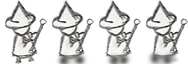
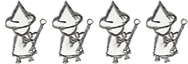
better wizbiz legs

Changed region(s): [[0.7713, 0.8125, 0.9574, 1.0], [0.2926, 0.8438, 0.4787, 1.0], [0.5585, 0.8438, 0.6915, 1.0]]

diff --git a/jame.js b/jame.js
@@ -31,7 +31,7 @@
                 this.fixed = true;
                 this.moves = false;
             }
-            this.addAnimation("run", [1, 2, 3], .03);
+            this.addAnimation("run", [2, 1, 3], .03);
             this.addAnimation("idle", [0], .5);
         },
         update: function() {
@@ -222,7 +222,7 @@
     
     Jxl.am.load({
         "images" : {
-            "wizard" : "assets/wizard.png",
+            "wizard" : "assets/wizard-test.png",
             "tile" : "assets/tile.png",
             "bunny" : "assets/bunny.png"
         },
